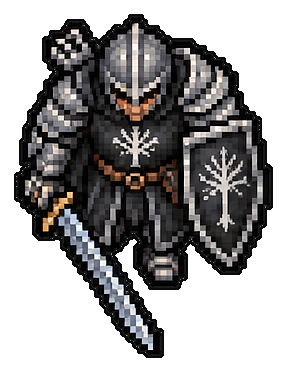
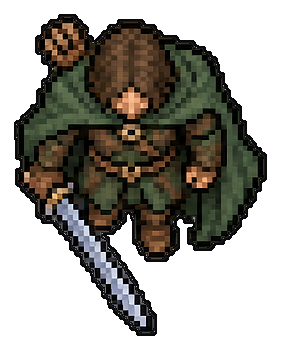
Pin aragorn to pre-restyle art + fix gandalf_mounted
- New single-cell sheets cut the approved px- aragorn/aragorn_mounted cells;
  no rs- variant exists so they stay pinned under RS=1
- gandalf_mounted: mounted-heroes cell had black blobs for hat/staff and
  debris fragments — replaced with new Gandalf-the-Grey-on-Shadowfax art

diff --git a/cutout.js b/cutout.js
@@ -113,6 +113,11 @@ const sheets = [
   { file: 'nb-single-mouth-of-sauron.png', rows: 1, cols: 1, noRim: true, paintedFile: 'px-nb-single-mouth-of-sauron.png', names: ['mouth_of_sauron'] },
   { file: 'nb-single-melkor.png', rows: 1, cols: 1, noRim: true, paintedFile: 'px-nb-single-melkor.png', names: ['melkor'] },
   { file: 'nb-single-witchking-foot.png', rows: 1, cols: 1, noRim: true, paintedFile: 'px-nb-single-witchking-foot.png', names: ['witchking_foot'] },
+  // pinned pre-restyle art (no rs- variant exists on purpose): user-approved
+  // rollback for aragorn — always resolves to the px- file under RS=1
+  { file: 'nb-single-aragorn.png', rows: 1, cols: 1, noRim: true, names: ['aragorn'] },
+  { file: 'nb-single-aragorn-mounted.png', rows: 1, cols: 1, noRim: true, names: ['aragorn_mounted'] },
+  { file: 'nb-single-gandalf-grey-mounted.png', rows: 1, cols: 1, noRim: true, names: ['gandalf_mounted'] },
 ];
 
 function idx(x, y, w) { return (y * w + x) << 2; }
